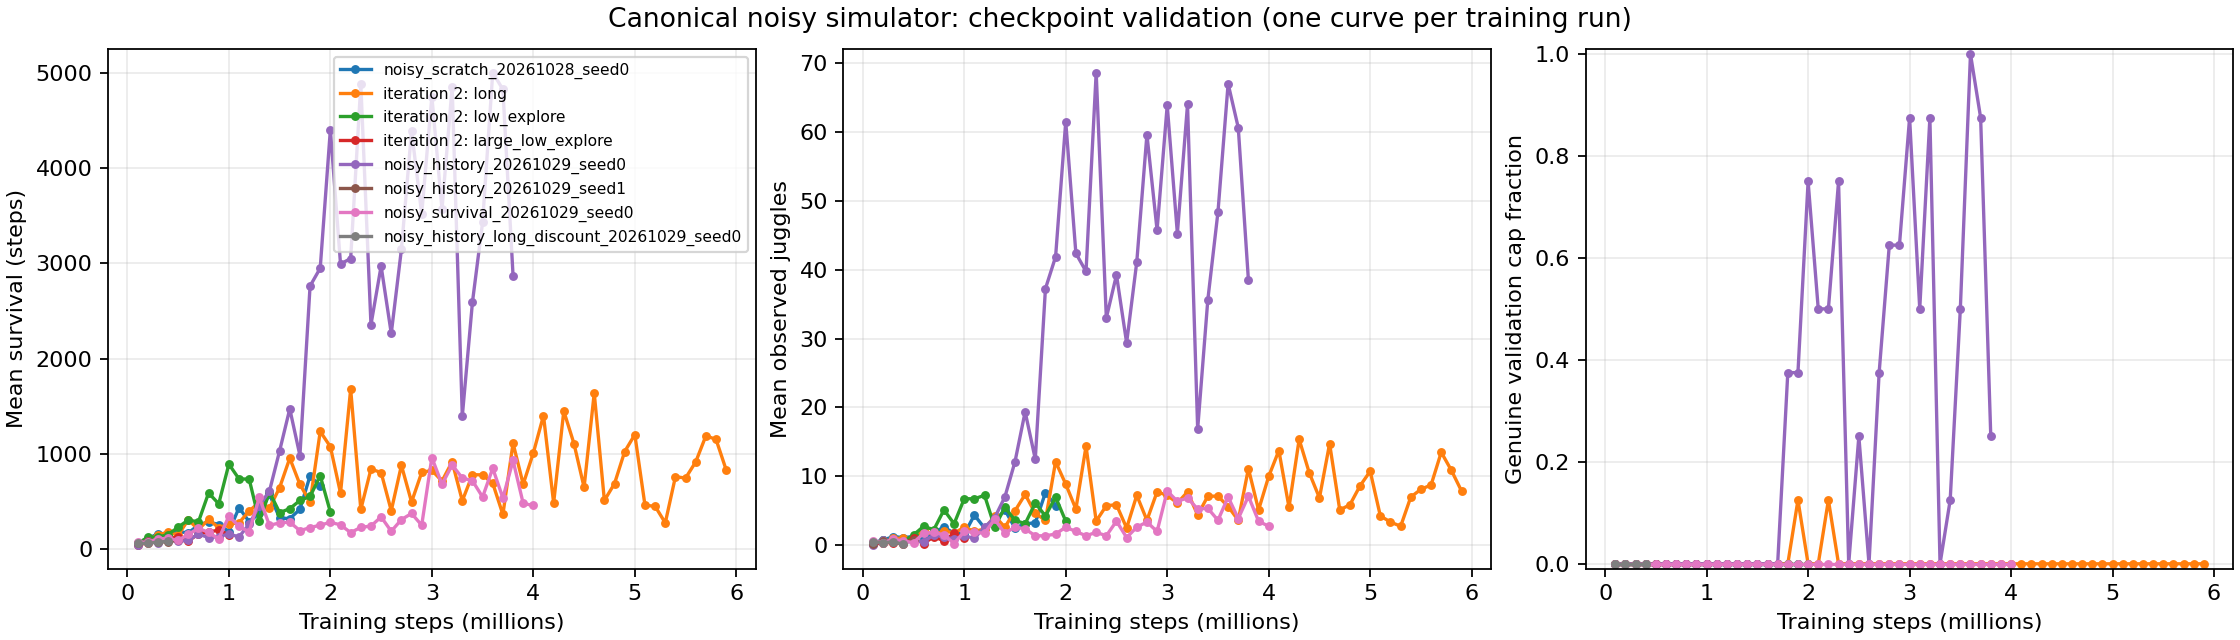
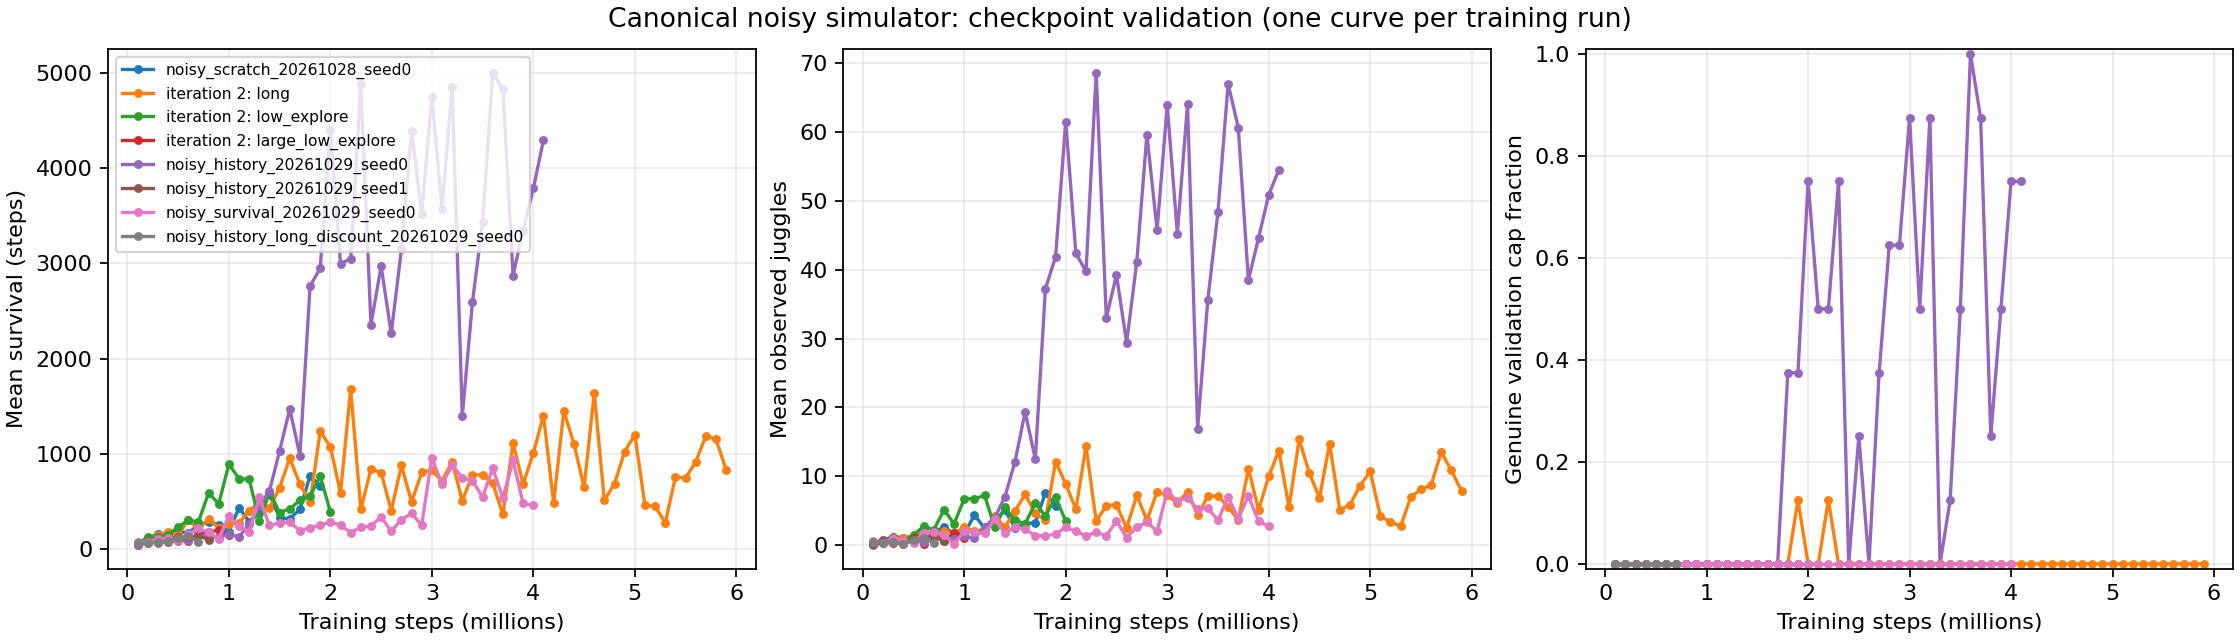
Record fixed history 4M result and start paired long-horizon comparison

diff --git a/docs/juggling-noisy-progress.md b/docs/juggling-noisy-progress.md
@@ -1,6 +1,6 @@
 # Noisy juggling progress
 
-Generated 2026-10-29T21:46:29.677267+00:00 from saved evaluations; no new rollouts.
+Generated 2026-10-29T22:01:06.078542+00:00 from saved evaluations; no new rollouts.
 
 Validation curves use repeatedly evaluated starts, not independent acceptance tests. Each point is an episode mean for one training seed. Check the CSV for episode counts, seeds and caps. Observed juggle counts use noisy camera positions and a direction-reversal filter. Contact timesteps are not distinct juggles. Cap fractions use the physical-trajectory heuristic when available, otherwise the legacy observed-count heuristic.
 
@@ -14,10 +14,10 @@ Validation curves use repeatedly evaluated starts, not independent acceptance te
 | noisy_iteration2_20261029_long | complete | 5,900,000 | 834.4 | 7.88 | 0.0% |
 | noisy_iteration2_20261029_low_explore | interrupted | 2,000,000 | 392.0 | 3.50 | 0.0% |
 | noisy_iteration2_20261029_large_low_explore | interrupted | 1,000,000 | 152.6 | 1.00 | 0.0% |
-| noisy_history_20261029_seed0 | training | 3,800,000 | 2871.6 | 38.50 | 25.0% |
-| noisy_history_20261029_seed1 | training | 500,000 | 100.9 | 0.75 | 0.0% |
+| noisy_history_20261029_seed0 | training | 4,100,000 | 4293.8 | 54.50 | 75.0% |
+| noisy_history_20261029_seed1 | training | 800,000 | 104.1 | 0.62 | 0.0% |
 | noisy_survival_20261029_seed0 | interrupted | 4,000,000 | 461.0 | 2.75 | 0.0% |
-| noisy_history_long_discount_20261029_seed0 | training | 400,000 | 83.2 | 0.12 | 0.0% |
+| noisy_history_long_discount_20261029_seed0 | training | 700,000 | 81.6 | 0.38 | 0.0% |
 
 Separate-start evaluations (selection and benchmark phases labeled):
 
@@ -40,6 +40,7 @@ Separate-start evaluations (selection and benchmark phases labeled):
 - [noisy_history_20261029_seed0, milestone 1m6 benchmark](../runs/td3/noisy_history_20261029_seed0/milestone_1m6_benchmark/results.json): 3519.4 mean steps, 45.16 observed juggles, 51.31 physical-trajectory juggles, 9.4% cap completion; 32 starts from seed 300000, cap 10000.
 - [noisy_history_20261029_seed0, milestone 2m1 benchmark](../runs/td3/noisy_history_20261029_seed0/milestone_2m1_benchmark/results.json): 4885.3 mean steps, 66.69 observed juggles, 74.34 physical-trajectory juggles, 28.1% cap completion; 32 starts from seed 300000, cap 10000.
 - [noisy_history_20261029_seed0, milestone 3m benchmark](../runs/td3/noisy_history_20261029_seed0/milestone_3m_benchmark/results.json): 6662.7 mean steps, 88.41 observed juggles, 99.19 physical-trajectory juggles, 43.8% cap completion; 32 starts from seed 300000, cap 10000.
+- [noisy_history_20261029_seed0, milestone 4m benchmark](../runs/td3/noisy_history_20261029_seed0/milestone_4m_benchmark/results.json): 7335.6 mean steps, 95.12 observed juggles, 107.22 physical-trajectory juggles, 50.0% cap completion; 32 starts from seed 300000, cap 10000.
 - [noisy_history_20261029_seed0, paired 2m1 20k eval](../runs/td3/noisy_history_20261029_seed0/paired_2m1_20k_eval/results.json): 7066.3 mean steps, 97.81 observed juggles, 108.72 physical-trajectory juggles, 12.5% cap completion; 32 starts from seed 500000, cap 20000.
 - [noisy_survival_20261029_seed0, validation-selected checkpoint benchmark](../runs/td3/noisy_survival_20261029_seed0/selected_eval/results.json): 811.2 mean steps, 6.78 observed juggles, 7.59 physical-trajectory juggles, 0.0% cap completion; 32 starts from seed 400000, cap 10000.
 - [noisy_survival_20261029_seed0, milestone 3m benchmark](../runs/td3/noisy_survival_20261029_seed0/milestone_3m_benchmark/results.json): 717.7 mean steps, 6.25 observed juggles, 5.81 physical-trajectory juggles, 0.0% cap completion; 32 starts from seed 300000, cap 10000.

diff --git a/notes/scratch/experiments/2026-10-29_22-01_history-4m-shared-result.md b/notes/scratch/experiments/2026-10-29_22-01_history-4m-shared-result.md
@@ -1,0 +1,24 @@
+# Fixed history 4M shared benchmark
+
+Recorded 2026-10-29 17:01:05 -0500. The fixed 4M checkpoint reaches 16/32 genuine 10k caps on the reused shared benchmark, but half of starts still fail. A longer paired test is running; the 3.6M research candidate remains unchanged pending that result.
+
+| Fixed checkpoint | Mean steps | Median | Physical juggles | Genuine 10k caps |
+|---|---:|---:|---:|---:|
+| 3M | 6,662.65625 | 9,635.5 | 99.1875 | 14/32 |
+| 4M | 7,335.59375 | 9,989.5 | 107.21875 | 16/32 |
+
+Same32starts300000–300031 and horizon10000. Four-million-step minimum44;16passed-paddle failures. Paired mean difference672.9375,17/32wins; bootstrap10000resamples, NumPy default_rng(42),95% interval[-1236.88671875,2529.1328125]. The interval includes zero. One training seed, reused starts and multiple checkpoints limit inference; this does not establish reliable survival or an unambiguous improvement.
+
+[Per-start comparison](../../../docs/juggling-history-benchmark.csv), raw `runs/td3/noisy_history_20261029_seed0/milestone_4m_benchmark/results.json`. The fixed watcher completed successfully at2026-10-29T21:58:34.569960+00:00. The original eight-start4M validation has mean3784.75 and6/8genuine5k caps; these are different starts and horizon.
+
+## Running longer paired comparison
+
+Froze checkpoint4M and verified its canonical saved config before launching32starts700000–700031,horizon20000. These are **reused paired research starts** from the3.6M online/target tests, not independent acceptance. [Locked provenance](../../../docs/juggling-history-4m-test-provenance.json); raw output `paired_4m_20k_eval/` under the run root. No long-test result yet. This will compare4M with the current3.6M candidate on the same long-horizon cases, rather than ranking different cohorts/horizons. Target-actor comparison is also still running. No candidate promotion follows from the short shared result alone.
+
+```sh
+# Completed fixed benchmark; choose a new output directory.
+.venv/bin/python -m scripts.td3.juggle_survival --run-dir runs/td3/noisy_history_20261029_seed0/train/checkpoint_4000000 --out-dir NEW_OUTPUT --scenario-set training --horizon 10000 --episodes 32 --seed-base 300000 --gif-steps 0
+# Running paired test: same checkpoint, horizon20000, seed-base700000, new output.
+```
+
+All three learners continue. No new training, implementation or simulator/sensing/control/DR changes. No new GIF; E031 has the latest verified3M clips. Checks: completed watcher/output, paired seed alignment and bootstrap, new frozen hash/canonical guard, per-start CSV, saved-data report generation, live processes, links/images, anchors/TOCs and whitespace. Earlier implementation tests are not rerun here.

diff --git a/docs/experiment_logbook.md b/docs/experiment_logbook.md
@@ -6,6 +6,7 @@ Entries and contents are ordered newest first; IDs remain permanent.
 
 ## Table of contents
 
+- [E036 — Fixed4M history benchmark reaches sixteen shared10k caps](#e036)
 - [E035 — Frozen target actor enters paired evaluation](#e035)
 - [E034 — History3.6M reaches fourteen independent20k caps](#e034)
 - [E033 — Policy-memory adapters match across rollover and resets](#e033)
@@ -41,6 +42,16 @@ Entries and contents are ordered newest first; IDs remain permanent.
 - [E003 — Original-sensing fine-tuning regression](#e003)
 - [E002 — Clean-simulation iterations and failed transfer](#e002)
 - [E001 — Initial sustained-juggling studies](#e001)
+
+<a id="e036"></a>
+
+## E036 — 2026-10-29 17:01:05 -0500 — Fixed4M history benchmark reaches sixteen shared10k caps
+
+The fixed4M checkpoint completes10k on16/32shared starts, leaving16failures and a longer paired test still running.
+
+**Completed:** Mean7335.59375,median9989.5,107.21875physical juggles. Same starts as3M's14/32caps and6662.65625mean; paired difference672.9375,bootstrap95% interval[-1236.88671875,2529.1328125],including zero. [Per-start CSV](juggling-history-benchmark.csv), [detailed record and commands](../notes/scratch/experiments/2026-10-29_22-01_history-4m-shared-result.md). Reused research benchmark, single training seed; no acceptance claim.
+
+**Running:** Frozen4M on same32used700000starts as3.6M,cap20k; target-actor test also running. [Pre-test provenance](juggling-history-4m-test-provenance.json). Candidate remains3.6M pending long results. Three learners continue; no new training or simulator/DR changes. No new GIF. [A035](agent_logbook.md#a035).
 
 <a id="e035"></a>
 

diff --git a/docs/agent_logbook.md b/docs/agent_logbook.md
@@ -6,6 +6,7 @@ Entries and contents are ordered newest first; IDs remain permanent.
 
 ## Table of contents
 
+- [A035 — Complete fixed4M benchmark and start matched long-horizon comparison](#a035)
 - [A034 — Inspect replay capacity and evaluate saved target weights](#a034)
 - [A033 — Complete3.6M independent evaluation and retain research candidate](#a033)
 - [A032 — Verify policy-memory bookkeeping while independent test runs](#a032)
@@ -40,6 +41,14 @@ Entries and contents are ordered newest first; IDs remain permanent.
 - [A003 — Restore original sensing and matched comparison](#a003)
 - [A002 — Clean diagnostics and evaluation](#a002)
 - [A001 — Continuing-task implementation](#a001)
+
+<a id="a035"></a>
+
+## A035 — 2026-10-29 17:01:05 -0500 — Complete fixed4M benchmark and start matched long-horizon comparison
+
+Codex collected the completed4M watcher result and launched a frozen20k comparison on the existing3.6M cohort.
+
+**Evidence:** [E036](experiment_logbook.md#e036), [detailed note](../notes/scratch/experiments/2026-10-29_22-01_history-4m-shared-result.md). Verified raw scores, paired seeds/bootstrap, locked4M model hash and canonical config. Preserved the short benchmark in the shared CSV and kept the candidate unchanged because horizons/cohorts must match for a direct comparison. Both long evaluations are running; all three learners continue. No simulator or training implementation change; documentation/report checks pass.
 
 <a id="a034"></a>
 

diff --git a/notes/scratch/experiments/INDEX.md b/notes/scratch/experiments/INDEX.md
@@ -106,3 +106,5 @@ Format: `- YYYY-MM-DD HH:MM | topic | one-sentence outcome | [file](path)`
 - 2026-10-29 21:46 | History3.6M independent result | Mean13,100,14/32at20k,18failures; research candidate retained, not accepted | [file](2026-10-29_21-46_history-3m6-independent-result.md)
 
 - 2026-10-29 21:51 | Target actor paired test | Frozen target weights from original scratch run;32reused starts at20k; running with no outcome | [file](2026-10-29_21-51_history-target-actor-paired-test.md)
+
+- 2026-10-29 22:01 | Fixed4M shared benchmark | Mean7336,16/32at10k; uncertainty includes zero; matched20k test running | [file](2026-10-29_22-01_history-4m-shared-result.md)
